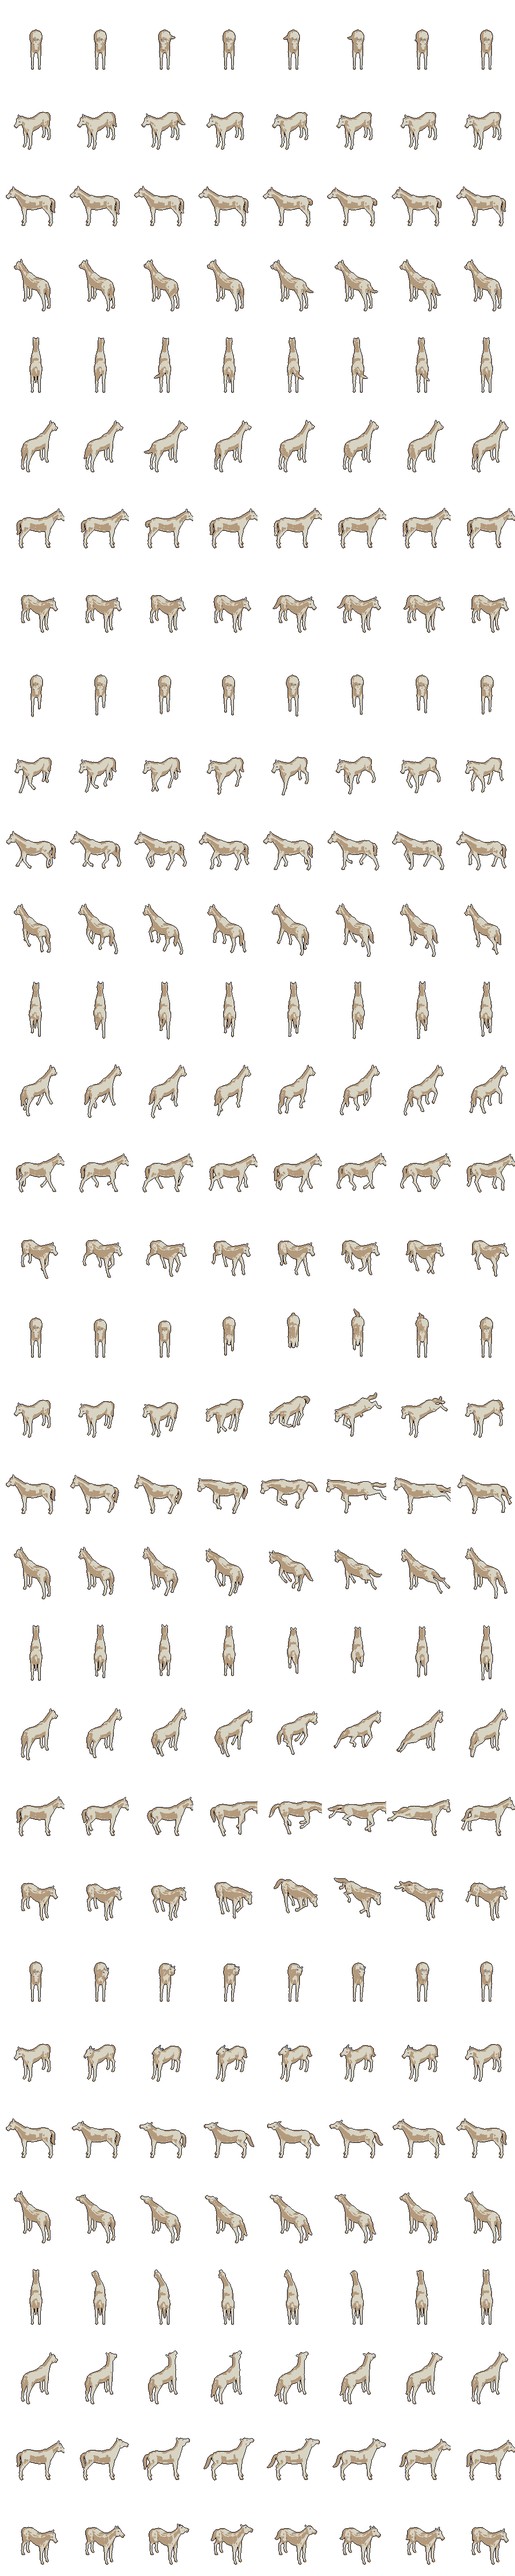
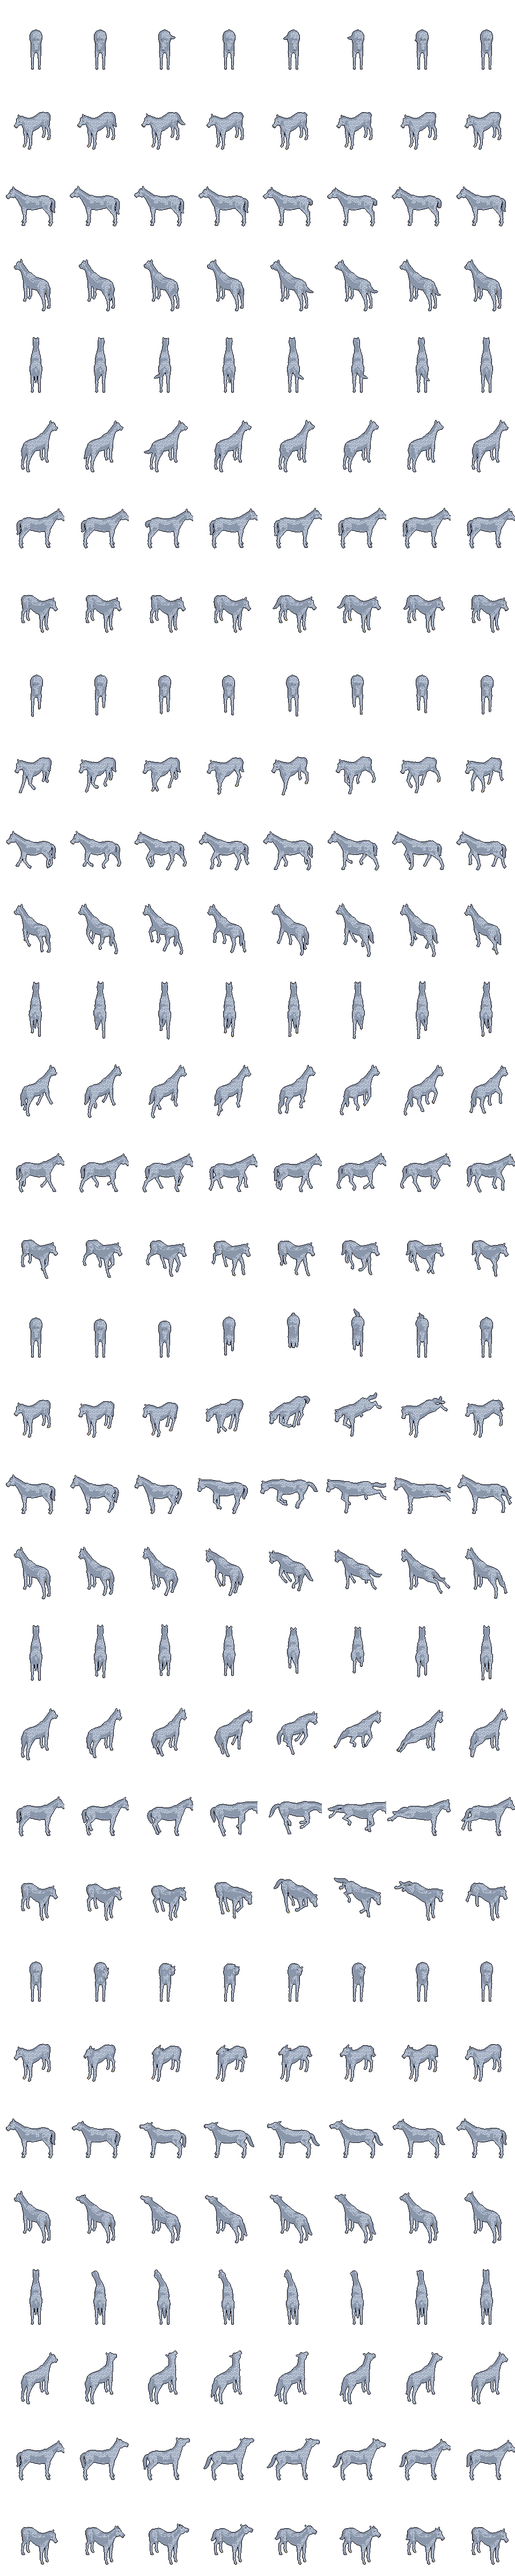
The greys: the cream horse recolored a dapple grey in code, and the team two greys
RULED 11-11, Griz: "yes to the gulch and greys", on the lean to his 11-06 note "the grays aren't gray".

- tools/greys-recolor.py: horsegrey_p1 (the team's) and willemmounted_p1 (Willem's mount) from cream to the palette's greys Amara's horse already wears, with a ring dapple; on Willem's sheet only the horse's patches (joined to its cream, down to its hooves, or a dozen px low in the frame), never his face or hands. Re-run safe. No art ask; the dream list has the redraw.
- js/inn.js In.bedRiders and data/fights.js TEAM: two greys where a bay and a grey stood.
- The show's beat silk (js/inn.js In.BEATS): the chase on the gulch with the tries pinned.

diff --git a/deep16/js/inn.js b/deep16/js/inn.js
@@ -885,7 +885,7 @@
     var w = In.WAGONAT, seen = !!(f.glamourSeen || f.glamourBroken);
     Y.riders = [{ x: w[0] + 3, y: w[1], sheet: seen ? 'kid1_p0' : 'goblin_p2', after: 'kid1_p0', facing: 3, gz: In.BEDZ, dy: In.BEDIN, foot: [1, 1], anim: 'idle', animT: 0 },
       { x: w[0] + 3, y: w[1] + 1, sheet: seen ? 'kid2_p0' : 'goblin_p2', after: 'kid2_p0', facing: 3, gz: In.BEDZ, dy: -In.BEDIN, foot: [1, 1], anim: 'idle', animT: 0 }].concat(noTeam ? [] : [
-      { x: w[0] - 2, y: w[1], sheet: 'horse_p1', facing: 3, gz: 0, foot: [2, 1], team: true, blocks: true, anim: 'idle', animT: 0 },
+      { x: w[0] - 2, y: w[1], sheet: 'horsegrey_p1', facing: 3, gz: 0, foot: [2, 1], team: true, blocks: true, anim: 'idle', animT: 0 },
       { x: w[0] - 2, y: w[1] + 1, sheet: 'horsegrey_p1', facing: 3, gz: 0, foot: [2, 1], team: true, blocks: true, anim: 'idle', animT: 0 }]);
     B.riders = (B.riders || []).filter(function (r) { return !r.yard; }).concat(Y.riders.map(function (r) { r.yard = true; return r; })); In.teamBlock(B);
   };
@@ -1238,6 +1238,8 @@
     { id: 'behindfire', label: 'BEHIND THE BIG FIRE: the chimney see-through while you stand behind it (11-11)', note: 'Inside at dusk, a square north-west of the big fire\'s chimney. Walk the squares behind it (its west side, 27,17 to 27,20, and its north, 28,16 and 29,16): while it hides you the whole stack goes faint; step out in front of it and it stands whole.', key: In.KEY, at: [26, 16], hour: 18, day: 5, inside: true },
     { id: 'behindstack', label: 'UPSTAIRS, BEHIND THE STACK: the chimney upstairs see-through (11-11)', note: 'Upstairs in the passage beside the big fire\'s stack. Step east onto 9,6, the one square behind it: the stack goes faint while you stand there.', key: In.UP, at: [8, 7], hour: 18 },
     { id: 'behindhouse', label: 'BEHIND THE HOUSE: a window in the roof round you (11-11)', note: 'The yard by day, on the grass off the house\'s north wall. Walk along it, a square or two out: wherever the roof hides you, a window opens in it round you -- no outline. Walk round to the south side and nothing opens: there nothing hides you.', key: In.KEY, at: [26, 10], hour: 10 },
+    { id: 'silk', label: 'THE SILK ACROSS THE ROAD: after the pair up Web Gulch on the greys (11-11)', note: 'Two in the morning at Web Gulch\'s south mouth, the wagon pair ahead up the cut on the greys (the yard\'s AFTER THEM). Walk north up the road. Midway up the cut, silk is strung across it where the gulch\'s webs come down: the greys run into it and the pair are caught fast. The tries pinned: Amara tears free and is away up the cut; Willem is still held when you come up -- the catch at the silk, Willem restrained in the fight. Then after Amara: on her grey, she is lost at the north mouth. The walk back by its hour, and the yard.', key: 'webgulch', at: [22, 109], hour: 2, day: 12, dice: [20, 1, 1, 1, 1, 1],
+      flags: { reachedInn: 1, mealHad: 1, gennetNamed: 1, wagonCycle: 0, wagonIn: 1, glamourBroken: 1, glamourSeen: 1, wagonStopped: 'c0', kidTaken: 1, wagonChase: { horses: true, willem: true, amara: true, leg: 1, gap: 10, acc: 0, on: false, steps: 0, back: null } } },
     { id: 'shore', label: 'THE SHORE BY DAY: the point, the boat, the floats (11-05)', note: 'Two in the afternoon on the path to the point: the rowboat drawn up, the lantern post, the flat stone with its cairn, the floats bobbing out on the shallows and the deep beyond. Walk out to the flat stone.', key: In.KEY, at: [40, 18], hour: 14 },
     { id: 'snoot', label: 'DAY 14: THE SNOOT\'S RUNNER by the well', note: 'The Snoot at the Pit: a runner off the Pit road by the well. E on him: TO THE SNOOT opens the Snoot\'s own page (its BACK TO THE INN comes home), or NOT NOW.', key: In.KEY, at: [13, 16], hour: 10, day: 14 },
     { id: 'world', label: 'THE WORLD AT THE INN: its door', note: 'A NEW GAME on THE WORLD on the inn\'s hex. E: the inn\'s door -- GO IN by the gate the party faces.', world: true, hour: 15 }

diff --git a/deep16/data/fights.js b/deep16/data/fights.js
@@ -7,8 +7,8 @@
 (function () {
   var D = window.D16 = window.D16 || {};
   // the wagon's team (the inn yard; Griz 09-27: "add horses to the wagon"): hitched in front of the wagon, which faces +gx,
-  // under the rail; a bay and a grey, each two squares nose to tail. Scenery: they hold their squares and startle when the run begins
-  var TEAM = [{ at: [8, 3], sheet: 'horse_p1', facing: 7, foot: [2, 1], blocks: true, team: true },
+  // under the rail; two greys, each two squares nose to tail (11-11, RULED: "yes to the gulch and greys" -- a bay and a grey till then; the team is "the greys" in every word). Scenery: they hold their squares and startle when the run begins
+  var TEAM = [{ at: [8, 3], sheet: 'horsegrey_p1', facing: 7, foot: [2, 1], blocks: true, team: true },
               { at: [8, 4], sheet: 'horsegrey_p1', facing: 7, foot: [2, 1], blocks: true, team: true }];
   D.FIGHTS = [
     // the first rungs (09-27, the Cowork seat, on Griz's "proceed with 4"): the 8-bit game's own creatures on the one map,
@@ -194,7 +194,7 @@
       from: 'the Halfway Inn lane, the Inn seat\'s §3 (a): the wagon met on the road by day; the 8-bit\'s S.wagonFight for the pair', won: 'IT IS OVER ON THE ROAD.', escaped: 'THEY ARE AWAY NORTH ON THE GREYS.',
       foes: [{ id: 'amara', kind: 'amara', at: [8, 9] }, { id: 'willem', kind: 'willem', at: [11, 9] }], wave: null,
       riders: [{ at: [9, 7], sheet: 'goblin_p2', after: 'kid1_p0', gz: 12 }, { at: [10, 7], sheet: 'goblin_p2', after: 'kid2_p0', gz: 12 },
-               { at: [9, 2], sheet: 'horse_p1', facing: 5, foot: [1, 2], blocks: true, team: true }, { at: [10, 2], sheet: 'horsegrey_p1', facing: 5, foot: [1, 2], blocks: true, team: true }] },
+               { at: [9, 2], sheet: 'horsegrey_p1', facing: 5, foot: [1, 2], blocks: true, team: true }, { at: [10, 2], sheet: 'horsegrey_p1', facing: 5, foot: [1, 2], blocks: true, team: true }] },
     // the cleric at Deepholm's door (deep.js EV.torvald, HOLD HIM; Griz 09-28: "given the weight of the scene ... redo it in 16"):
     // a story fight (no level: off the ladder). He yields at half his hit points (foes.js torvald `yields`): the fight ends
     // 'yielded', his own words on the card (the 8-bit's yieldText), and the 8-bit game asks what you do with him

diff --git a/tools/greys-recolor.py b/tools/greys-recolor.py
@@ -1,0 +1,76 @@
+"""THE GREYS (RULED 11-11, Griz: "yes to the gulch and greys", on the inn seat's lean to his 11-06 note on eyes-wagonwatch-1105, "the grays aren't gray"): the wagon's
+team are "the greys" in every word, and the art desk drew the horse cream -- horsegrey_p1 (the team's, alone) and willemmounted_p1 (Willem on his) -- and the yard's other
+horse a bay (horse_p1). In code, no art ask: the cream horse recolored a dapple grey on the shared palette, from the grey Amara's horse already is (amaramounted_p1:
+110,106,102 and its blue-grey shades), and the team two greys (js/inn.js In.bedRiders, data/fights.js TEAM). horsegrey_p1 is the horse alone, so all of its coat; on Willem's
+sheet only the coat -- each frame's patches of the coat's colours joined to its cream (the horse's lightest), never his face or hands, which share the tan but touch no cream.
+Re-run safe: a sheet with no cream left is written as it is.   python tools/greys-recolor.py   (then python tools/deep16-build.py for the stamps)"""
+import json, os, re, sys
+from PIL import Image
+
+ROOT = os.path.dirname(os.path.dirname(os.path.abspath(__file__)))
+ART = os.path.join(ROOT, 'deep16', 'art')
+CREAM, TAN, SHADE = (216, 212, 196), (180, 154, 124), (148, 121, 95)
+COAT = {CREAM: (184, 195, 212), TAN: (138, 150, 170), SHADE: (110, 106, 102)}   # (the palette's own greys: the light, the body, the shade)
+DAPPLE = (138, 150, 170)   # (the dapples on the light: rings of the body's grey)
+
+
+def dapple(x, y):
+    """a dapple grey's rings: soft spots on a 7-px lattice, each a ring with a light middle"""
+    cx, cy = (x + (y // 7) * 3) % 7 - 3, y % 7 - 3
+    d = cx * cx + cy * cy
+    return 4 <= d <= 6
+
+
+def frame_size(name):
+    s = open(os.path.join(ROOT, 'deep16', 'data', 'sprites.js'), encoding='utf-8').read()
+    i = s.index('"%s"' % name)
+    return int(re.search(r'"fw": (\d+)', s[i:]).group(1)), int(re.search(r'"fh": (\d+)', s[i:]).group(1))
+
+
+def coat_mask(im, fw, fh, whole):
+    """the pixels to recolor: all of the coat's colours (whole), or each frame's patches of them joined (4 ways) to a cream pixel"""
+    W, H = im.size; px = im.load(); out = set()
+    if whole:
+        for y in range(H):
+            for x in range(W):
+                p = px[x, y]
+                if p[3] and p[:3] in COAT: out.add((x, y))
+        return out
+    # (a patch is the horse's if it holds cream, or runs down to the hooves -- the bottom quarter of the frame: the front view's horse has no cream in it -- or is a dozen
+    # pixels or more with its middle in the frame's lower half: the front gallop's face and chest, cut off from its legs by the outline; his face and hands, tan too,
+    # are small patches high in the frame)
+    for fy in range(0, H, fh):
+        for fx in range(0, W, fw):
+            seen = set()
+            for y in range(fy, min(H, fy + fh)):
+                for x in range(fx, min(W, fx + fw)):
+                    if (x, y) in seen or px[x, y][3] == 0 or px[x, y][:3] not in COAT: continue
+                    stack = [(x, y)]; seen.add((x, y)); patch = []; cream = False; low = 0
+                    while stack:
+                        a, b = stack.pop(); patch.append((a, b)); cream = cream or px[a, b][:3] == CREAM; low = max(low, b - fy)
+                        for d in ((1, 0), (-1, 0), (0, 1), (0, -1)):
+                            q = (a + d[0], b + d[1])
+                            if q in seen or not (fx <= q[0] < min(W, fx + fw) and fy <= q[1] < min(H, fy + fh)): continue
+                            v = px[q]
+                            if v[3] and v[:3] in COAT: seen.add(q); stack.append(q)
+                    mid = sum(q[1] - fy for q in patch) / float(len(patch))
+                    if cream or low >= fh * 0.75 or (mid >= fh * 0.5 and len(patch) >= 12): out.update(patch)
+    return out
+
+
+def recolor(name, whole):
+    path = os.path.join(ART, name + '.png'); im = Image.open(path).convert('RGBA'); px = im.load()
+    fw, fh = frame_size(name); mask = coat_mask(im, fw, fh, whole)
+    n = 0
+    for (x, y) in mask:
+        p = px[x, y]; c = COAT[p[:3]]
+        if p[:3] == CREAM and dapple(x % fw, y % fh): c = DAPPLE
+        px[x, y] = c + (p[3],); n += 1
+    if n: im.save(path, optimize=True)
+    print('%s: %d coat pixels to grey%s' % (name, n, '' if n else ' (no cream left: as it was)'))
+    return n
+
+
+if __name__ == '__main__':
+    recolor('horsegrey_p1', True)
+    recolor('willemmounted_p1', False)
